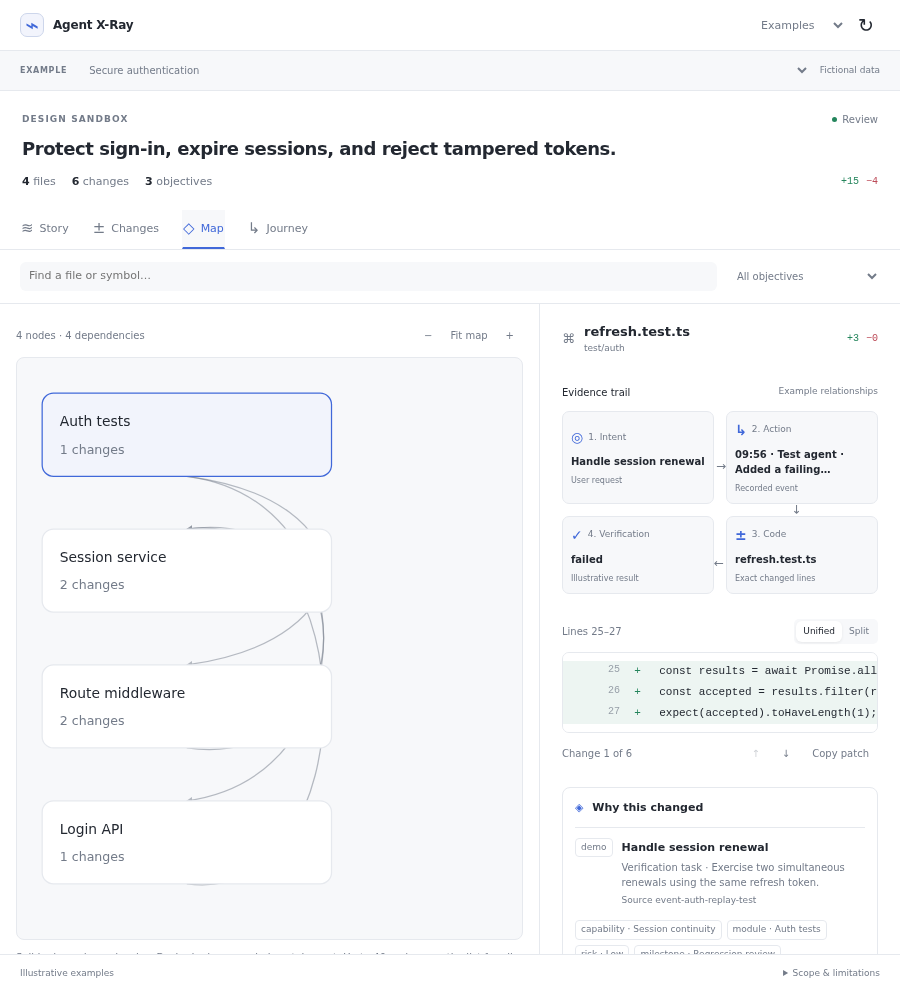
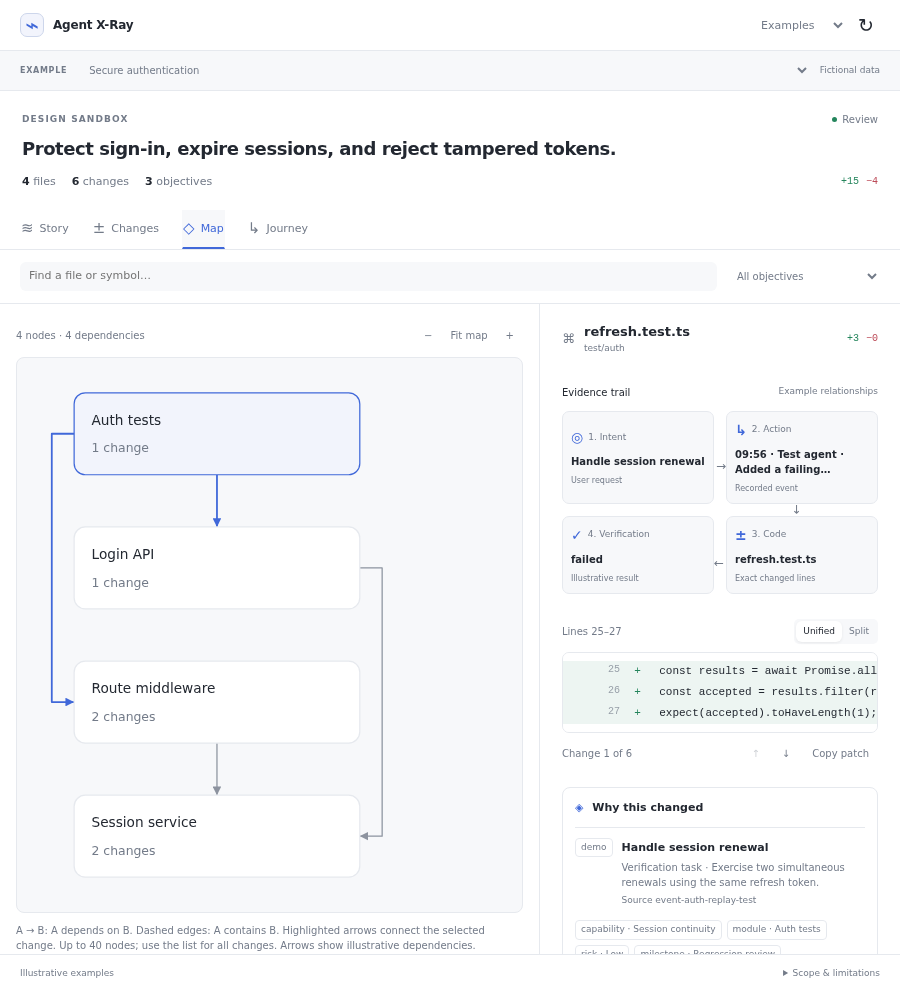
Record corrected diagram visual acceptance and navigation checks

diff --git a/test/browser/review.spec.js b/test/browser/review.spec.js
@@ -69,6 +69,17 @@ for (const scheme of ["light", "dark"])
       });
       for (const view of ["Story", "Changes", "Map", "Journey"]) {
         await page.getByRole("tab", { name: view, exact: true }).click();
+        if (view === "Map") {
+          const fontSize = await page
+            .locator(".graph-node text")
+            .first()
+            .evaluate(
+              (t) =>
+                parseFloat(getComputedStyle(t).fontSize) *
+                Math.hypot(t.getScreenCTM().a, t.getScreenCTM().b),
+            );
+          expect(fontSize).toBeGreaterThanOrEqual(10);
+        }
         if (view === "Map" && width === 900)
           await expect(page.locator(".graph")).toHaveAttribute(
             "viewBox",
@@ -255,6 +266,27 @@ test("figures show real relationships and drive the shared selection", async ({
   expect(edge.length).toBeGreaterThan(0);
   expect(edge.stroke).not.toBe("none");
   expect(Number(edge.opacity)).toBeGreaterThan(0);
+  for (const name of [
+    "Auth tests",
+    "Login API",
+    "Route middleware",
+    "Session service",
+  ]) {
+    await page
+      .getByRole("button", { name: "Inspect " + name, exact: true })
+      .click();
+    const labels = await page
+      .locator(".graph-edge.selected title")
+      .allTextContents();
+    expect(labels).toHaveLength(2);
+    expect(
+      labels.every(
+        (label) =>
+          label.startsWith(name + " depends on ") ||
+          label.endsWith(" depends on " + name),
+      ),
+    ).toBe(true);
+  }
   await page.getByLabel("Zoom in").click();
   expect(
     await page.locator(".graph").evaluate((node) => node.style.width),

diff --git a/test/graph.test.js b/test/graph.test.js
@@ -69,3 +69,26 @@ test("cycles, reversed edges, self loops and high-degree nodes stay outside card
     assertClear(layoutGraph(nodes, es, compact));
   }
 });
+
+test("diamond relationships have no crossings in either layout", () => {
+  for (const compact of [true, false]) {
+    const g = layoutGraph(nodes, edges, compact);
+    const segments = g.edges.flatMap((edge, id) =>
+      edge.points.slice(1).map((b, i) => ({ id, a: edge.points[i], b })),
+    );
+    for (const s of segments)
+      for (const t of segments) {
+        if (s.id === t.id) continue;
+        if (s.a.x === s.b.x && t.a.y === t.b.y) {
+          assert.ok(
+            !(
+              s.a.x > Math.min(t.a.x, t.b.x) &&
+              s.a.x < Math.max(t.a.x, t.b.x) &&
+              t.a.y > Math.min(s.a.y, s.b.y) &&
+              t.a.y < Math.max(s.a.y, s.b.y)
+            ),
+          );
+        }
+      }
+  }
+});

diff --git a/docs/reviews/2026-11-12-visual-cognition.md b/docs/reviews/2026-11-12-visual-cognition.md
@@ -35,3 +35,13 @@ The original screenshots covered only a subset of views. The expanded automated 
 The visual cognition agent inspected all 27 captures (24 view/theme/width combinations plus three multi-folder captures). Cross-folder labels, visible coverage explanation and responsive layout passed. The review identified unreadably scaled Map captions at 900px; the fix now selects compact layout using the map pane's available width, with a browser assertion for the resulting layout. A fresh capture verifies this separately.
 
 Remaining visual observations: compact graph arcs can overlap; multiple hunks in the same file need clearer row labels; example Journey titles embed timestamps that disagree with event times; footprint captions can shrink in medium-width layouts. These are documented follow-up work, not claimed fixed by the session-scope patch.
+
+## Blocking arrow-routing correction
+
+The initial review flagged overlapping arcs, but that finding was wrongly deferred. It is a diagram correctness issue, and the prior map image was not acceptable. The user rejected it before merge.
+
+The graph now uses topological ordering, distinct ports, orthogonal outside-card rails in compact mode, and column gutters/outer lanes in expanded mode. Selected-node relationships and arrowheads receive matching emphasis. The legend explicitly defines arrow direction. Geometry regressions cover the diamond, reversed edges, cycles, self loops, bounds and zero diamond crossings; an independent agent additionally checked 4,000 randomized layouts for card intersections and canvas bounds.
+
+The visual cognition expert re-inspected six fresh Map captures (light/dark at 380/900/1440). Verdict: **PASS for the pictured four-node graph**, with all relationships independently traceable, no hidden segments or crossings, distinct arrowheads, readable labels, and correct selected-edge emphasis. This is not a claim that arbitrary dense graphs have been visually validated. The screenshots in this PR replace the rejected map image.
+
+Release rule: material visual findings block visual sign-off until fixed, captured again, and rechecked. Automated code/geometry tests do not substitute for that gate.

diff --git a/docs/acceptance-results.md b/docs/acceptance-results.md
@@ -61,3 +61,5 @@ Legacy aggregates remain immutable. Same-ID current views recover available omit
 Three engineering experts reviewed host scope, path safety and cache/UI behavior. A separate visual cognition expert assessed the whole product; the report is in docs/reviews/2026-11-12-visual-cognition.md. Broader recommendations are explicitly separate from the three immediate visual fixes.
 
 Validation for 0.2.2: 46 unit/integration tests and 17 browser tests pass, including a 24-capture all-view/theme/width matrix and three cross-folder layouts. Native DSH fixture routes return edits from the opened folder plus a sibling repository and a worktree for each isolated test session. Native sidebar lifecycle checks and package installation/import pass. Screenshots are controlled fixtures, not evidence of arbitrary filesystem monitoring.
+
+Arrow-routing correction: replaced obscured curves with separate orthogonal rails/ports, explicit direction and incident-edge highlighting. Four-node graph passed independent visual recheck across six width/theme combinations. Geometry tests include zero crossings for that fixture and avoid card interiors with cycles/self-loops. Remaining whole-product recommendations in the visual audit are not marked complete.
